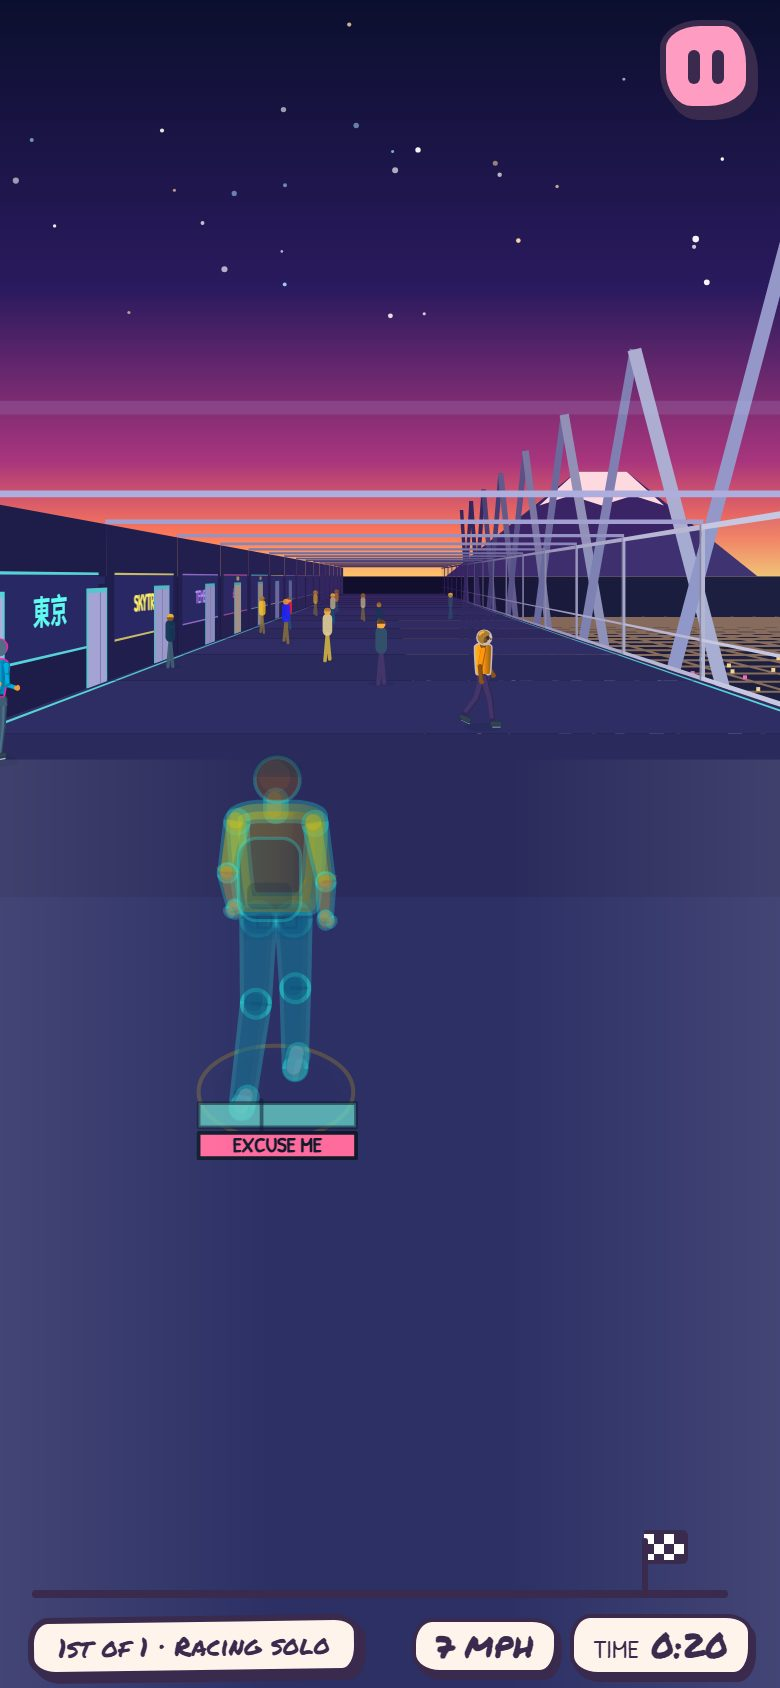
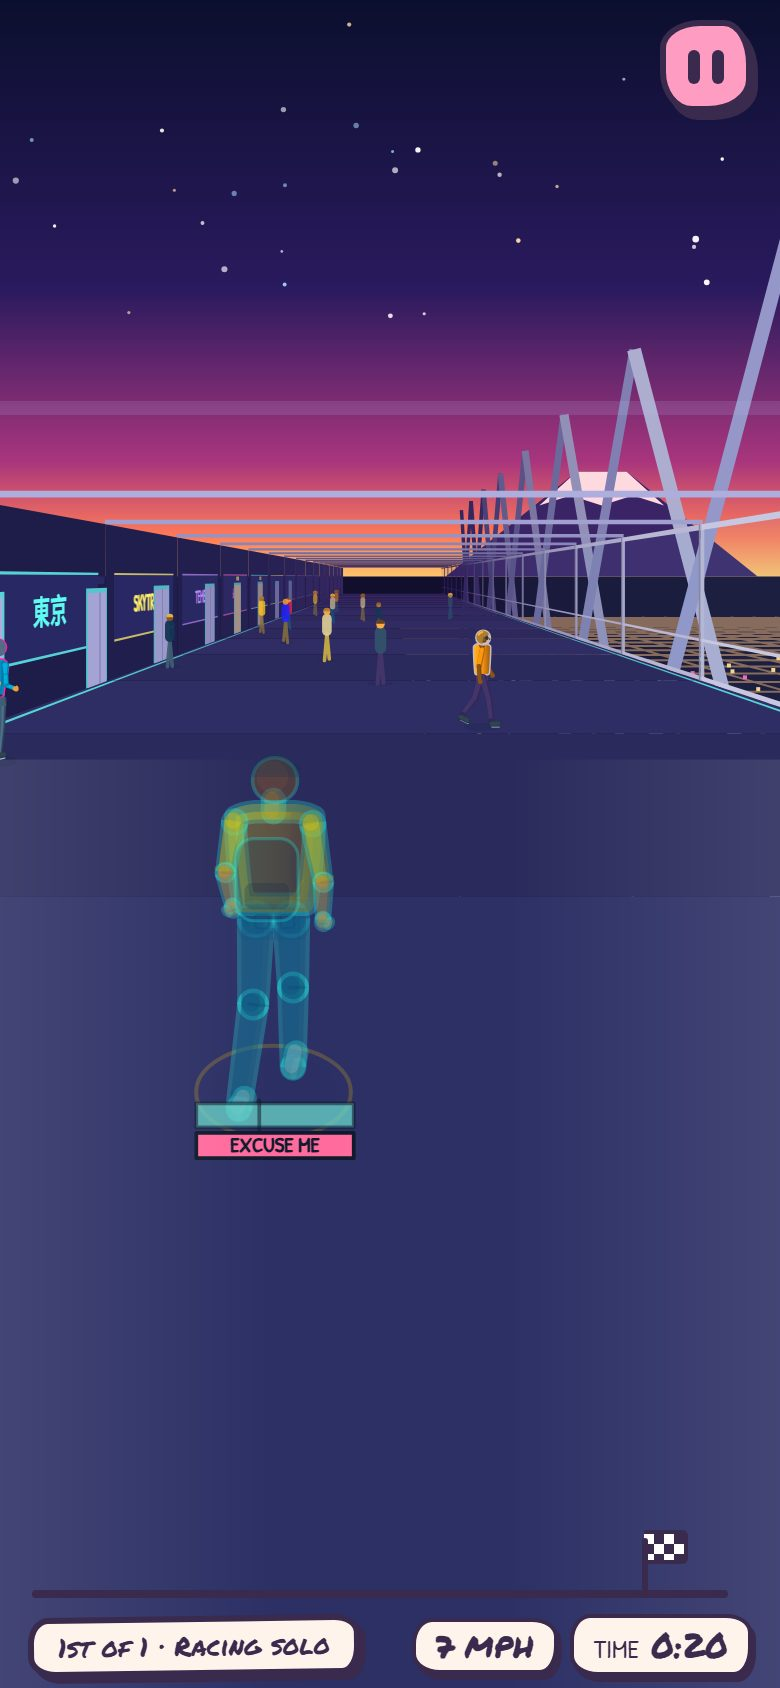
Batch 27c: close the porter's notch, count slip-throughs correctly, report
A push-bar circle between porter and cart stops racers being wedged there
(test first). The bot sweep now counts only the stuck rule, not Clear
power-ups; sweeps re-run on develop and this branch for all four stages.
Tsukiji medals unchanged by the two-measure rule.

diff --git a/test/batch27-features.test.js b/test/batch27-features.test.js
@@ -193,3 +193,23 @@ test('every new feature renders on screen without errors', () => {
   const S = game(SKYTREE, 2); S.S.people = []; S.runEvent('lift'); for (let i = 0; i < 60 * 15; i++) { S.S.ghostT = 9; S.tick(1 / 60); } S.S.pz = S.S.lifts[0].z - 10; S.render();
   const B = game(BAGGAGE, 2); course(B); B.S.pz = waiters(B)[0].z - 8; B.render();
 });
+
+// Batch 27c: the porter's shape has no notch between body and cart. A racer beside the porter's body, drifting into it as it runs
+// on, is turned aside by the push bar and gets past the cart. With the old shape (body and cart circles only) it was caught in the
+// notch: blocked for up to 0.85 s at a time and still in the gap after 3 s, and in bot races that ended in the stuck rule's slip-through.
+test('a racer steered into the gap between a porter and its cart is turned aside, not held', () => {
+  let tried = 0;
+  for (let seed = 1; seed <= 8; seed++) {
+    const E = game(TSUKIJI, seed, 'race'); course(E); E.S.race.bots = []; E.S.race.pickups = [];
+    const p = porters(E)[0]; if (!p) continue;
+    E.S.people = [p]; tried++;
+    const side = p.x > 0 ? -1 : 1;   // the open side
+    E.S.px = p.x + side * 0.4; E.S.pz = p.z + 0.3; E.S.me.z = E.S.pz; E.S.speed = 2.5; E.S.vx = -side * 1.0; E.S.ghostT = 0; E.S.blockT = 0;
+    let held = 0, i = 0;
+    for (; i < 60 * 3 && E.S.pz < p.z + 1.9; i++) { E.tick(1 / 60); held = Math.max(held, E.S.blockT); assert.equal(E.S.ghostT, 0, 'seed ' + seed + ': pinned until the stuck rule fired'); }
+    const past = E.S.pz >= p.z + 1.9, aside = Math.abs(E.S.px - p.x) >= 0.6;   // past the cart, or turned out beside it (it may brush along the cart)
+    assert.ok(past || aside, 'seed ' + seed + ': held in the gap, ' + (E.S.px - p.x).toFixed(2) + ' m across and ' + (E.S.pz - p.z).toFixed(2) + ' m along after 3 s');
+    assert.ok(held < 0.5, 'seed ' + seed + ': blocked for ' + held.toFixed(2) + ' s');
+  }
+  assert.ok(tried >= 4, 'porters to try: ' + tried);
+});

diff --git a/src/render/figures.js b/src/render/figures.js
@@ -647,7 +647,8 @@ function helmet(hx, hy, r) {
 }
 
 // A Tsukiji porter's hand cart, pushed ahead of them: a wooden flatbed on two wheels with crates of ice and the catch on top, in the
-// colours of the stall counters. It fills exactly its hitbox: 0.76 m wide, from 0.4 to 1.62 m ahead of the porter.
+// colours of the stall counters. It fills its hitbox: 0.76 m wide, from 0.4 to 1.62 m ahead of the porter, and the handles run back
+// to the porter's hands, over the push-bar circle that closes the gap between porter and cart (batch 27c).
 function drawCart(p) {
   const x = p.x, z0 = p.z + 0.4, z1 = p.z + 1.62;
   for (const dx of [-0.3, 0.3]) box3D(x + dx - 0.05, x + dx + 0.05, 0, 0.3, z1 - 0.42, z1 - 0.12, hex('#1b1410'));   // wheels
@@ -656,7 +657,9 @@ function drawCart(p) {
   box3D(x + 0.02, x + 0.34, 0.36, 0.62, z0 + 0.08, z1 - 0.08, hex('#dfeaf2'));
   box3D(x - 0.3, x - 0.06, 0.7, 0.76, z0 + 0.2, z1 - 0.2, hex('#e5484d'));                                            // the catch on top
   box3D(x + 0.06, x + 0.3, 0.62, 0.68, z0 + 0.2, z1 - 0.2, hex('#ff8a5c'));
-  box3D(x - 0.36, x + 0.36, 0.86, 0.92, z0 - 0.06, z0, hex('#3b2a26'));                                              // the push bar
+  box3D(x - 0.36, x + 0.36, 0.86, 0.92, z0 - 0.06, z0, hex('#3b2a26'));                                              // the cart's front rail
+  for (const dx of [-0.3, 0.3]) box3D(x + dx - 0.025, x + dx + 0.025, 0.9, 0.96, z0 - 0.32, z0, hex('#3b2a26'));     // the handles, back to the porter's hands
+  box3D(x - 0.32, x + 0.32, 0.92, 0.98, z0 - 0.32, z0 - 0.26, hex('#3b2a26'));                                       // the push bar the porter holds
   for (const dx of [-0.34, 0.34]) box3D(x + dx - 0.03, x + dx + 0.03, 0.36, 0.92, z0 - 0.04, z0 + 0.02, hex('#3b2a26'));
 }
 

diff --git a/src/sim/people.js b/src/sim/people.js
@@ -359,7 +359,7 @@ function genChunkInner(z0) {
    pace the racers take. Their lanes miss every wet patch (the patches lie 0.6 to 3.0 m either side of the middle) and leave the rest
    of the 8 m alley open. Nothing pushes them off their line. */
 export const PORTER = { every: 36, at: 2, v: 1.0, lanes: [-3.42, 0, 3.42] };
-const porterCircles = () => [{ ox: 0, oz: 0, r: R_BODY }, { ox: 0, oz: 0.78, r: 0.38 }, { ox: 0, oz: 1.24, r: 0.38 }];
+const porterCircles = () => [{ ox: 0, oz: 0, r: R_BODY }, { ox: 0, oz: 0.4, r: 0.32 }, { ox: 0, oz: 0.78, r: 0.38 }, { ox: 0, oz: 1.24, r: 0.38 }];   // body, the push bar (closes the notch between body and cart: batch 27c), the cart
 function tsukijiPorter(z0) {
   if (z0 < 24 || Math.floor(z0 / 4) % (PORTER.every / 4) !== PORTER.at || R() < 0.3) return;   // by chunk number: races start their chunks at 14 m
   const u = R(), x = u < 0.5 ? PORTER.lanes[0] : u < 0.8 ? PORTER.lanes[1] + rnd(-0.12, 0.12) : PORTER.lanes[2];   // keep left, Tokyo style

diff --git a/game/rounds/round-02/reports/batch-27-stage-features.md b/game/rounds/round-02/reports/batch-27-stage-features.md
@@ -1,41 +1,44 @@
-# Batch 27 report: stage features
+# Batch 27 report: stage features (with 27c: wet patches in real runs, porter notch)
 
 ```text
 Outcome:     done
 Branch:      stefanvargas100-hue/stage-features, commit in the worker_done message
-Changed:     Tsukiji shoppers and porters, Skytree lift arrivals, Baggage carousel waiters, Gate Change pink boards; PROTO 14 -> 15
-Checks:      batch27-features 13/13 (failed first), batch27-unchanged 1/1, 4 stage tests + hitboxes/scenery/medals 156/156, security.test.js 12/12, npm test 1054 pass / 0 fail / 2 todo, build ok, diff --check ok
-Not checked: real phones; friend rooms on two phones; whether Tsukiji is too crowded and how each feature feels (emulated 390x844 shots only)
-Off plan:    test/security.test.js stage 7-8 hashes and title (lead ruling, batch-27b-hash-reply.md); race.js shove() skips steady people; MEDAL_TIMES unchanged
-Trouble:     fixture test first failed on -0 vs 0 in deepStrictEqual, not a real change; races start chunks at 14 m, so z0 % 36 never matched
+Changed:     Tsukiji shoppers, porters (notch closed) and wet patches that now appear; Skytree lifts; Baggage waiters; Gate Change boards; PROTO 15
+Checks:      batch27-features 14/14 and the new tsukiji real-race test failed first, now pass; npm test 1056 pass / 0 fail / 2 todo; build ok; diff --check ok
+Not checked: real phones; friend rooms on two phones; how Tsukiji feels with patches, porters and shoppers together (emulated 390x844 shots only)
+Off plan:    security.test.js stage 7-8 hashes (rulings 27b, 27c); race.js shove() skips steady people; figures.js cart handles; MEDAL_TIMES unchanged
+Trouble:     my first sweep counted Clear power-ups as slip-throughs; a first notch test pushed into the porter from the side, which holds anyone
 ```
 
 ## For the lead
 
-**How each feature stays deterministic**
-- Porters: one may start per 36 m (by chunk number), from the chunk's seeded stream. All walk exactly 1.0 m/s on a fixed lane, locked, and nothing pushes them. A porter made later is placed where it would have walked to by now (the walking time of a live porter, else the run clock), so they stay 36 m apart whatever the pace. Lanes x = -3.42, 0 +/-0.12 and 3.42 miss every wet patch (0.6 to 3.0 m either side) and leave at least 3 m clear on one side. Footprint 0.76 m wide, cart 0.4 to 1.62 m ahead.
-- Lift: 6 to 8 passengers, 4.6 to 6.2 m apart, start hidden behind the exhibit wall and step out on a timer from the event (11 to 14 s, later further down the deck), cross at 1.25 m/s and stop at the glass. `S.lifts` holds where the renderer lights doors.
-- Waiters: group k stands at 64 + 48k + 0..8 m (so 40 to 56 m apart), from `mulberry32(seed or Classic run key + k)`. Bag spill: before each bag lane is placed, `waiterClear` moves it 3.2 m past any group it would cross. Both sides compute the same group positions from the seed, so it holds whichever is generated first.
-- Boards: `S.boardFlipUntil = S.time + longest settle`; `render/gatechange.js` reads it. A test shows the run is identical with and without it.
+**Batch 27c: wet patches.** `people.js` placed a patch when `z0 % 32 === 16`, but real runs build chunks from 14 m, so no patch ever appeared. Patches are now placed by chunk number (`Math.floor(z0 / 4) % 8 === 4`), one per 32 m; side, size and place in the chunk are unchanged. A new test in `tsukiji.test.js` walks a real race and a real Classic run and fails on the old rule ("race: 0 patches"). The Tsukiji tests and `batch27-features.test.js` now build the course from 14 m as real runs do, and the porter tests assert they met real patches. Porters needed no change for patches: their lanes miss both patch sides.
 
-**Bots:** 4-bot races, seeds 1 to 20, all four stages, before and after: every bot finished, no bot moved under 1.5 m in any 6 s, at most 4 safety slip-throughs in any race (same as before). Files: `batch-27-evidence/bot-sweep-*.jsonl`.
+**Porter notch (ruling 27c).** The corrected sweep showed 4 real slip-throughs on Tsukiji, all bots wedged between a porter's body circle and its cart circle. `porterCircles` now has a push-bar circle `{ox 0, oz 0.4, r 0.32}` (footprint still 0.76 m wide), and `drawCart` draws handles and a push bar back to the porter's hands over it. Test first: a racer beside the porter's body, drifting into it, was held in the gap on the old shape (blocked up to 0.85 s, still there after 3 s) and is turned aside on the new one.
 
-**Medians (Easy/Medium/Hard, s), measured by the existing stage tests:**
-- Tsukiji 144.1/120.6/87.0 -> 149.5/112.2/92.6 (+3.7/-7.0/+6.4%)
-- Skytree 188.8/157.2/123.6 -> 188.0/152.5/122.0 (-0.4/-2.9/-1.3%)
-- Baggage 133.7/111.8/97.3 -> 133.4/119.1/93.0 (-0.2/+6.5/-4.4%)
-- Gate Change 170.0/144.9/119.6, unchanged
+**Slip-throughs, counted correctly.** The batch-27 sweep also counted Clear power-ups, which set the same `ghostT`. `bot-sweep.js` now counts only the stuck rule (`ghostT` = 0.8). 4-bot races, seeds 1 to 20, develop -> this branch: every bot finished, none stuck (worst 6 s stretch 5.96 m).
+- Tsukiji 0 -> 1 (4 before the notch fix). The one left: seed 12, t 122.1 s, z 373, an Easy bot on a wet patch (grip 0.22) held for 1.8 s against the crossing delivery truck (`turret` event). Not porter shape, so per the ruling not fixed and nothing tuned.
+- Skytree 0 -> 0. Baggage 1 (seed 18) -> 2 (seed 6, one each for two bots). Gate Change 0 -> 0.
+Files: `batch-27-evidence/bot-sweep-develop.jsonl`, `bot-sweep-final.jsonl`.
 
-The 20-seed sweep gives different signs for the same stages (Baggage Medium -4.6%, Tsukiji Easy +5.9%, Skytree Easy -5.0%), so I read the moves as noise from the reshuffled crowd and did not change `MEDAL_TIMES`. Tsukiji's current targets (151/113/92) already sit within 1% of its new medians. Lead to decide.
+**Medians (Easy/Medium/Hard, s), develop -> this branch.**
+- Tsukiji, stage test: 144.1/120.6/87.0 -> 138.8/117.9/94.2 (-3.6/-2.2/+8.3%). Sweep: 141.4/116.7/93.5 -> 149.8/117.5/95.9 (+5.9/+0.7/+2.6%). No medal moves the same way by more than 3% in both, so Tsukiji's `MEDAL_TIMES` stay 151/113/92.
+- Skytree, stage test 188.8/157.2/123.6 -> 188.0/152.5/122.0; sweep 190.9/152.8/124.1 -> 181.3/151.1/123.5.
+- Baggage, stage test 133.7/111.8/97.3 -> 133.4/119.1/93.0; sweep 142.5/119.3/97.3 -> 133.4/113.8/95.1.
+- Gate Change unchanged (170.0/144.9/119.6; sweep 178.8/145.0/120.8). Other three stages' targets left alone.
 
-**Records:** these four stages have no route tag, so they use race best `excuseme_race_best_<id>`, board `race:<id>_r2`, race ghost `excuseme_ghost_race_<id>`; Classic `excuseme_best_<id>:cm3` and ghost `excuseme_ghost_<id>:cm3`; Daily/Weekly `<period>:mp3`. All four now have more or different people (Gate Change only if a seeded run's crowd differs: it does not, the boards are drawing only). Old Tsukiji, Skytree and Baggage records are not strictly comparable; Gate Change records are. No identity changed.
+**Wet patch on screen** (`tsukiji-wetpatch.jpg`, emulated phone). Easy to see: a flat light-teal slab with a yellow front edge. Two things look wrong. It reads as a mat or tile, not wet concrete (no sheen). And it is drawn as one object sorted at its centre, so it paints over anyone standing in its far half: in `tsukiji-porter.jpg` the player and a walker on a patch have their legs, ring and Excuse Me bar under the teal. Not repainted, as the brief says; it needs a drawing fix in `figures.js` (`wetpatch`).
 
-**PROTO 14 -> 15:** Tsukiji and Baggage chunks now hold different people, so a host and a guest on different builds would see different crowds.
+**How the batch-27 features stay deterministic**
+- Porters: one may start per 36 m (by chunk number), from the chunk's seeded stream, all at exactly 1.0 m/s on a fixed lane, never pushed. A porter made later is placed where it would have walked to by now, so they stay 36 m apart whatever the pace. Lanes x = -3.42, 0 +/-0.12, 3.42.
+- Lift: 6 to 8 passengers, 4.6 to 6.2 m apart, step out of the wall on a timer (11 to 14 s after the event), cross at 1.25 m/s, stop at the glass.
+- Waiters: group k at 64 + 48k + 0..8 m from the seed; a bag spill moves any lane 3.2 m past a group, whichever is generated first.
+- Boards: `S.boardFlipUntil`, drawing only; a test shows the run is identical without it.
 
-**Friend rooms:** shoppers, porters and waiters come from chunks and appear in friend rooms. The lift and the gate change are events, and events never run in friend rooms today (`!S.duel` in `sim/game.js`), so they do not appear there; changing that is outside this batch.
+**Records.** No route tags on these stages: race best `excuseme_race_best_<id>`, board `race:<id>_r2`, race ghost `excuseme_ghost_race_<id>`; Classic `excuseme_best_<id>:cm3`; Daily/Weekly `<period>:mp3`. Old Tsukiji, Skytree and Baggage records are not strictly comparable (Tsukiji now has wet patches too); Gate Change records are. No identity changed. **PROTO 14 -> 15**: Tsukiji and Baggage crowds differ between builds.
 
-**Pinned test (resolved by the lead's ruling, `batch-27b-hash-reply.md`):** `test/security.test.js` "stages 0-8 keep their crowds..." still pins all nine stages. Stages 0 to 6 match the batch-23 hashes unedited. Stage 7 (Tsukiji) is now `debb45594185` (was `a3179a0bf731`) and stage 8 (Skytree) `0c801ed00909` (was `0aa81b43bfba`), re-taken on batch 27; the title says so.
+**Pinned test.** `test/security.test.js` pins all nine stages; 0 to 6 match the batch-23 hashes unedited. Stage 8 re-taken on batch 27 (`0c801ed00909`), stage 7 on 27c (`a5791f068ab5`); the porter notch fix did not move it.
 
-**Found, not fixed:** Tsukiji wet patches use `z0 % 32 === 16`, but races and Classic start chunks at 14 m (14, 18, 22...), so no wet patch ever appears in a real run. Tests pass because they generate chunks from 0. The fix is in `people.js` but changes Tsukiji's layout again, so it needs its own decision.
+**Friend rooms.** Shoppers, porters, waiters and wet patches come from chunks and appear there; the lift and the boards do not (events never run in friend rooms; Director accepts this for now).
 
-Evidence: `batch-27-evidence/` holds the fixture script and output, the sweep script and results, medians, and five screenshots from `feature-shots.mjs` (emulated 390x844 at 2x, not a phone).
+Evidence: `batch-27-evidence/` (fixture of the 8 unchanged stages, sweep script and results, medians, six screenshots from `feature-shots.mjs`, emulated 390x844 at 2x, not a phone).
